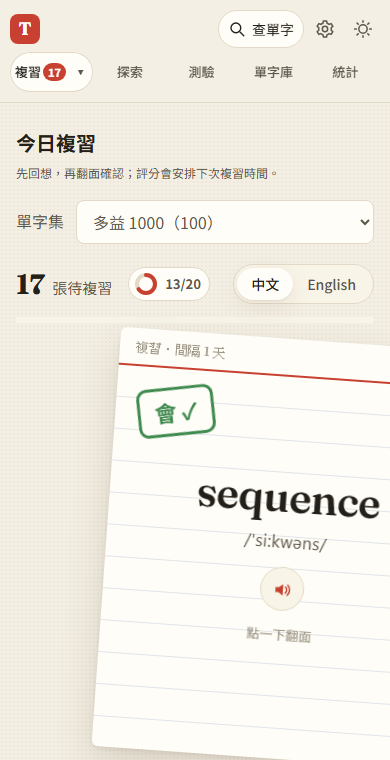
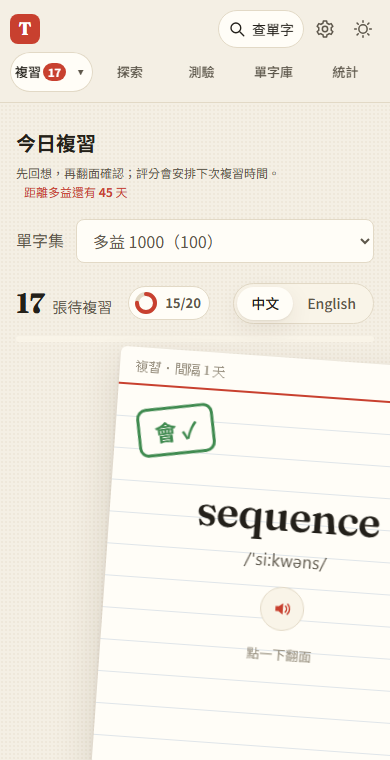
docs: README 截圖加入詞性變化、短文閱讀、考試倒數

diff --git a/tests/capture_readme.py b/tests/capture_readme.py
@@ -8,6 +8,7 @@ README 裡的圖片才會一樣大。截完再執行 tools/make_readme_images.py
   python tests/capture_readme.py
   python tools/make_readme_images.py
 """
+import json
 import os
 
 from playwright.sync_api import sync_playwright
@@ -62,6 +63,40 @@ def shot(page, name, **kw):
     print('saved', name)
 
 
+# 詞性變化題庫：用來找出每題的正確答案（截圖要拍「答對」的畫面）
+BANK = json.load(open(os.path.join(ROOT, 'data', 'packs', 'toeic-1000-forms.json'), encoding='utf-8'))
+ANSWER_BY_SENTENCE = {q['sentence']: q['answer'] for q in BANK['questions']}
+
+# 短文閱讀的示範 AI 回應：一封用到單字包第 1 組 6 個字的 Email
+READING_WORDS = ['appointment', 'reservation', 'receipt', 'payment', 'department', 'flight']
+READING = {
+    'title': 'Your Business Trip to Osaka',
+    'paragraphs': [
+        'Dear Mr. Chen, thank you for booking your business trip through our travel department. '
+        'Your flight to Osaka departs at 9:15 a.m. on May 12, and your hotel reservation has been confirmed for three nights.',
+        'Full payment for the trip was received yesterday. A copy of your receipt is attached to this email. '
+        'Please keep it for your expense report.',
+        'If you need to change your appointment with our client in Osaka, please let us know by Friday so that we can update your schedule.',
+    ],
+    'translation': [
+        '陳先生您好：感謝您透過我們的差旅部門預訂這次出差。您飛往大阪的班機在 5 月 12 日上午 9:15 起飛，飯店也已確認訂好三晚。',
+        '這趟行程的全額款項已於昨天收到。收據副本附在這封信裡，請保留以便申報費用。',
+        '如果需要更改和大阪客戶的會面，請在星期五前告訴我們，以便更新您的行程。',
+    ],
+    'targets': READING_WORDS,
+    'questions': [
+        {'question': 'What is the main purpose of the email?', 'options': ['To confirm travel arrangements', 'To cancel a hotel booking', 'To request a payment', 'To announce a new office'], 'answer': 0, 'explanation': '第一段說明班機和飯店都已確認，整封信在確認出差安排。'},
+        {'question': 'What is attached to the email?', 'options': ['A flight ticket', 'A receipt', 'A map of Osaka', 'An expense report'], 'answer': 1, 'explanation': '第二段：A copy of your receipt is attached。'},
+        {'question': 'By when should Mr. Chen report a change to his appointment?', 'options': ['May 12', 'Tomorrow', 'Friday', 'After the trip'], 'answer': 2, 'explanation': '第三段：please let us know by Friday。'},
+    ],
+}
+
+
+def gemini(route):
+    body = {'candidates': [{'content': {'parts': [{'text': json.dumps(READING)}]}, 'finishReason': 'STOP'}]}
+    route.fulfill(status=200, content_type='application/json', body=json.dumps(body))
+
+
 def go(page, route):
     page.goto(URL + '#/' + route)
     page.wait_for_load_state('networkidle')
@@ -86,6 +121,15 @@ with sync_playwright() as p:
     page.wait_for_timeout(1500)
     page.click('[aria-label="關閉加入單字"]')
     page.evaluate(SEED)
+    # 考試在 45 天後；示範用的金鑰（Gemini 用上面的假回應）
+    page.evaluate("""async () => {
+      const { dayKey, dayStart } = await import('/js/srs.js');
+      const d = new Date(dayStart(Date.now())); d.setDate(d.getDate() + 45);
+      const s = JSON.parse(localStorage.getItem('toeic-cards:settings') || '{}');
+      localStorage.setItem('toeic-cards:settings', JSON.stringify({ ...s, examDate: dayKey(d.getTime() + 60000), newPerDay: 20 }));
+      localStorage.setItem('toeic-cards:gemini-key', 'demo-key-for-screenshot');
+    }""")
+    ctx.route('https://generativelanguage.googleapis.com/**', gemini)
     page.reload()
     page.wait_for_load_state('networkidle')
 
@@ -121,7 +165,38 @@ with sync_playwright() as p:
         page.locator('.option').nth(1).click()
     shot(page, 'quiz.png')
 
-    # ---- 統計 ----
+    # ---- 詞性變化：答對的畫面（先結束上一段的測驗；暫時拿掉金鑰，題目全部來自內建題庫）----
+    page.click('#quit')
+    page.click('#home')
+    page.evaluate("localStorage.removeItem('toeic-cards:gemini-key')")
+    go(page, 'quiz')
+    page.reload()
+    page.wait_for_selector('.mode-btn[data-mode=forms]')
+    page.click('.mode-btn[data-mode=forms]')
+    page.wait_for_selector('.q-forms .q-sentence')
+    sentence = page.locator('.q-sentence').inner_text().replace('_______', '_____')
+    opts = page.locator('.option .option-text').all_inner_texts()
+    page.locator('.option').nth(opts.index(ANSWER_BY_SENTENCE[sentence])).click()
+    page.wait_for_selector('.feedback.ok')
+    shot(page, 'forms.png')
+    page.click('#quit')
+    page.evaluate("localStorage.setItem('toeic-cards:gemini-key', 'demo-key-for-screenshot')")
+
+    # ---- 短文閱讀：用 6 個「不熟」的字產生，答完第一題 ----
+    page.evaluate("""async (wanted) => {
+      const s = await import('/js/store.js');
+      for (const w of s.getWords()) s.toggleUnfamiliar(w.id, wanted.includes(w.word));
+    }""", READING_WORDS)
+    go(page, 'reading')
+    page.select_option('#readingType', 'email')
+    page.click('#generate')
+    page.wait_for_selector('.reading-passage')
+    page.locator('.reading-q[data-q="0"] .option[data-o="0"]').click()
+    page.wait_for_timeout(300)
+    page.evaluate('window.scrollTo(0, 0)')
+    shot(page, 'reading.png')
+
+    # ---- 統計（最上面是考試倒數）----
     go(page, 'stats')
     shot(page, 'stats.png')
 

diff --git a/README.md b/README.md
@@ -56,7 +56,7 @@
 <p align="center">
   <img src="docs/images/readme/phones.png" alt="手機畫面：滑卡複習、單字探索、學習統計（深色模式）" width="100%">
 </p>
-<p align="center"><sub>手機：滑卡複習 ／ 單字探索 ／ 學習統計（深色模式）</sub></p>
+<p align="center"><sub>手機：滑卡複習（含考試倒數）／ 單字探索 ／ 學習統計（深色模式）</sub></p>
 
 <table>
   <tr>
@@ -68,19 +68,27 @@
     <td align="center"><sub>點解釋或例句裡的字就能查，還能收藏</sub></td>
   </tr>
   <tr>
+    <td width="50%"><img src="docs/images/readme/forms.png" alt="詞性變化題"></td>
+    <td width="50%"><img src="docs/images/readme/reading.png" alt="多益短文閱讀"></td>
+  </tr>
+  <tr>
+    <td align="center"><sub>詞性變化：Part 5 最常考，單字包的字有內建題目</sub></td>
+    <td align="center"><sub>短文閱讀：AI 用你的字寫 Email、公告，附 Part 7 題目</sub></td>
+  </tr>
+  <tr>
+    <td width="50%"><img src="docs/images/readme/stats.png" alt="學習統計與考試倒數"></td>
     <td width="50%"><img src="docs/images/readme/library.png" alt="單字庫與單字集"></td>
-    <td width="50%"><img src="docs/images/readme/quiz.png" alt="看中文選英文測驗"></td>
   </tr>
   <tr>
+    <td align="center"><sub>考試倒數與讀書計畫：建議每天學幾個新字</sub></td>
     <td align="center"><sub>單字庫：用單字集分類，搜尋英文或中文</sub></td>
-    <td align="center"><sub>多益風格測驗：答錯會說明，並加入錯題本</sub></td>
   </tr>
   <tr>
-    <td width="50%"><img src="docs/images/readme/stats.png" alt="學習統計"></td>
+    <td width="50%"><img src="docs/images/readme/quiz.png" alt="看中文選英文測驗"></td>
     <td width="50%"><img src="docs/images/readme/dark.png" alt="深色模式的自由翻卡"></td>
   </tr>
   <tr>
-    <td align="center"><sub>學習統計：連續打卡、學習中、長期熟記</sub></td>
+    <td align="center"><sub>多益風格測驗：答錯會說明，並加入錯題本</sub></td>
     <td align="center"><sub>自由翻卡（深色模式）</sub></td>
   </tr>
 </table>
